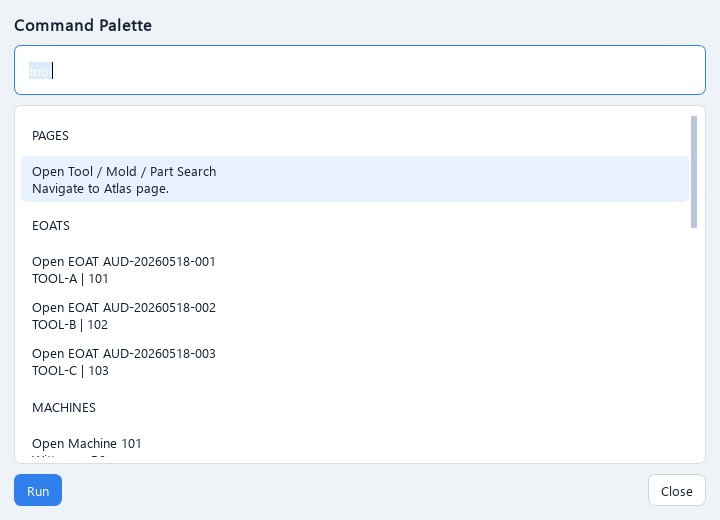
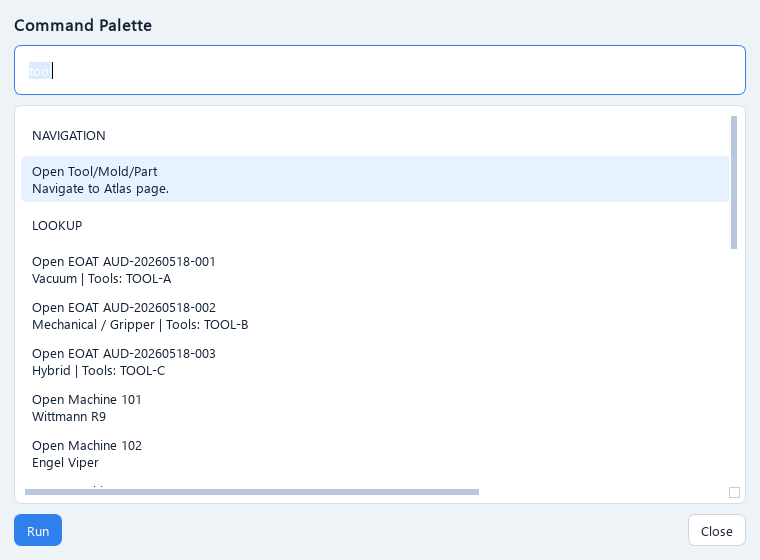
Refresh Atlas screenshot gallery

diff --git a/EOAT_Atlas_pages/README.md b/EOAT_Atlas_pages/README.md
@@ -1,0 +1,66 @@
+# EOAT Atlas Screenshots
+
+Current screenshot set for the EOAT Atlas app, generated from the synthetic demo project.
+
+This folder should contain exactly 19 PNG files: 14 main Atlas pages plus the command palette, photo carousel, and setup packet states.
+
+## Main Pages
+
+### 01. Home / Command Deck
+![Home / Command Deck](01_home_command_deck.png)
+
+### 02. What Do I Need?
+![What Do I Need?](02_what_do_i_need.png)
+
+### 03. Changeover Packet Builder
+![Changeover Packet Builder](03_changeover_packet_builder.png)
+
+### 04. EOAT Profiles
+![EOAT Profiles](04_eoat_profiles.png)
+
+### 05. Machine Profiles
+![Machine Profiles](05_machine_profiles.png)
+
+### 06. Tool / Mold / Part
+![Tool / Mold / Part](06_tool_mold_part.png)
+
+### 07. Compatibility Data Table
+![Compatibility Data Table](07_compatibility_data_table.png)
+
+### 08. Analytics Dashboard
+![Analytics Dashboard](08_analytics_dashboard.png)
+
+### 09. Photos
+![Photos](09_photos.png)
+
+### 10. Standards & Work Instructions
+![Standards & Work Instructions](10_standards_work_instructions.png)
+
+### 11. PM / Inspection
+![PM / Inspection](11_pm_inspection.png)
+
+### 12. Information Library
+![Information Library](12_information_library.png)
+
+### 13. Reports & Handoff
+![Reports & Handoff](13_reports_handoff.png)
+
+### 14. Settings / Diagnostics
+![Settings / Diagnostics](14_settings_diagnostics.png)
+
+## Supporting Atlas States
+
+### 15. Command Palette
+![Command Palette](15_command_palette.png)
+
+### 16. Photo Viewer Carousel
+![Photo Viewer Carousel](16_photo_viewer_carousel.png)
+
+### 17. Setup Packet Options
+![Setup Packet Options](17_setup_packet_options.png)
+
+### 18. Setup Packet Result
+![Setup Packet Result](18_setup_packet_result.png)
+
+### 19. Setup Packet PDF Viewer
+![Setup Packet PDF Viewer](19_setup_packet_pdf_viewer.png)
